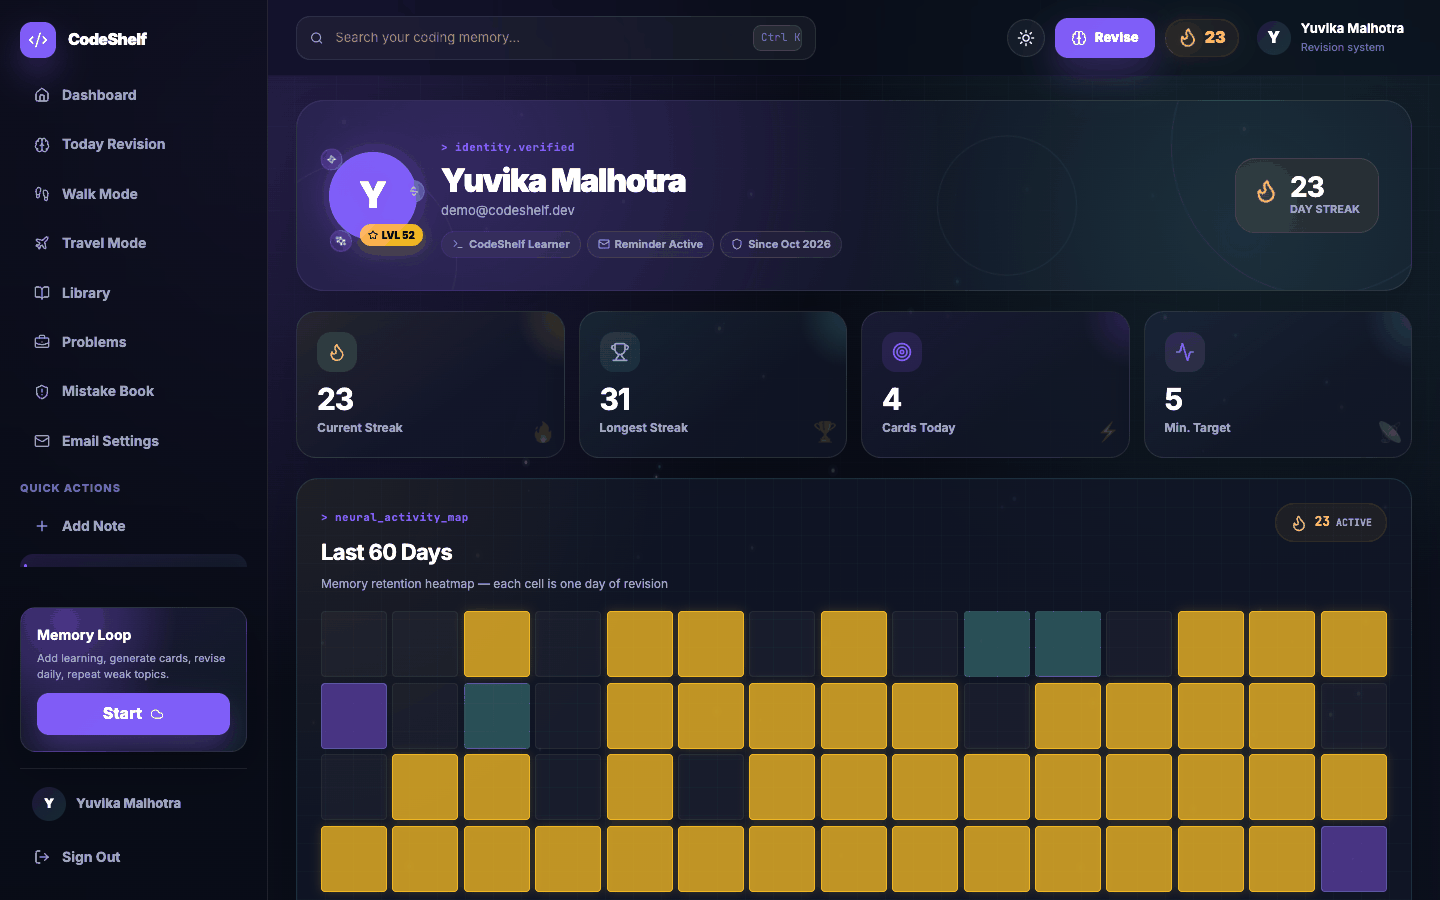
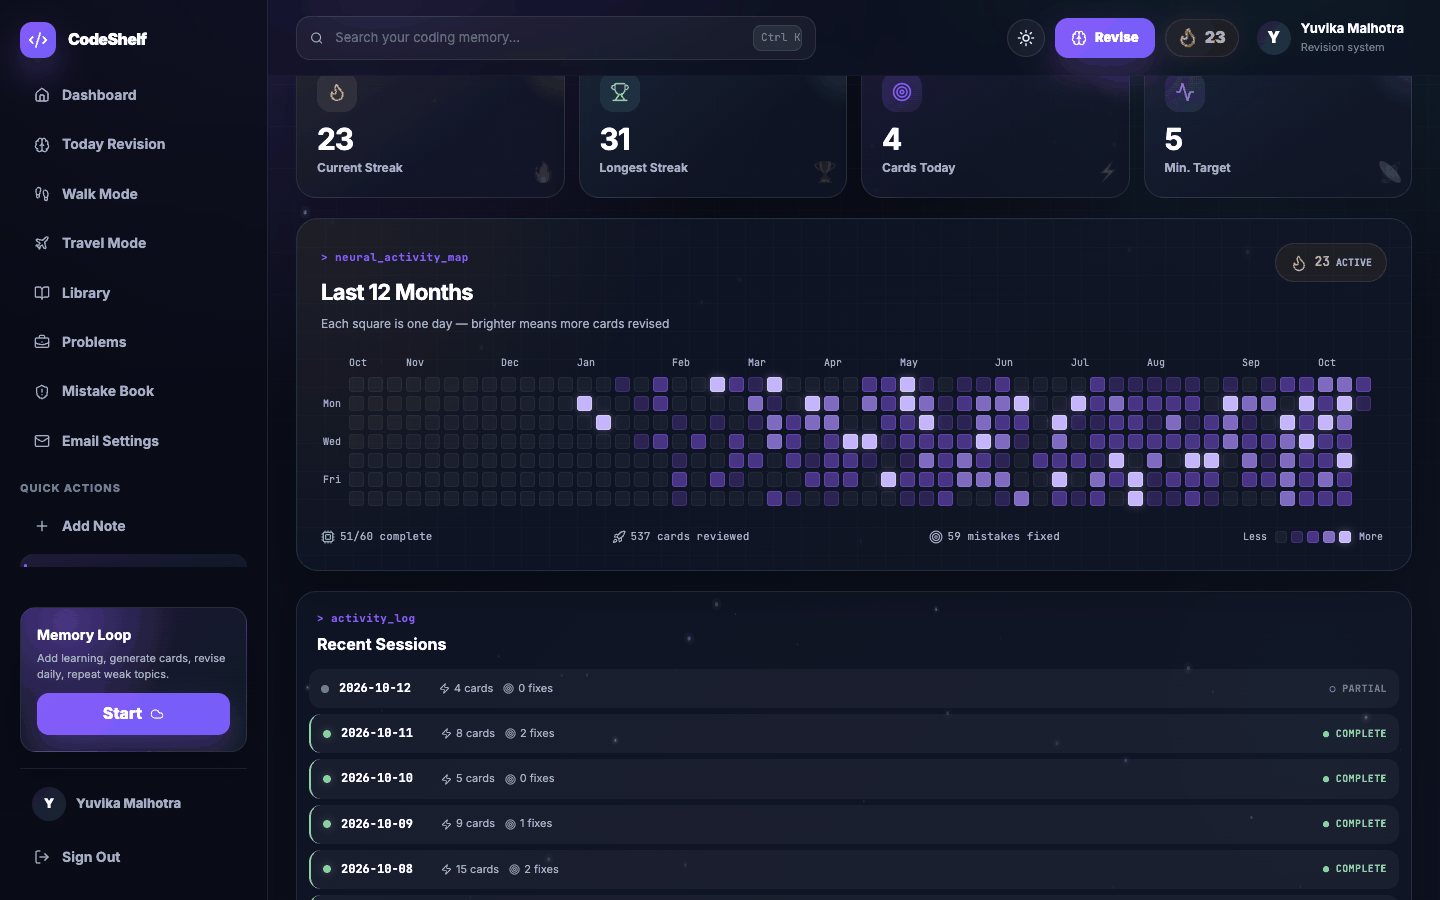
Profile heatmap: GitHub-style 12-month activity graph
Week columns with weekday and month labels, fixed-size cells and five
intensity levels scaled to the daily card target, instead of 60 equal
oversized tiles. /api/activity takes an optional days window (default 60,
so existing callers are unchanged); stats and the session log still use
the last 60 days. README screenshot and demo GIF updated.

diff --git a/src/pages/Profile.jsx b/src/pages/Profile.jsx
@@ -12,12 +12,13 @@ export default function Profile() {
 
   useEffect(() => {
     activityApi.streak().then(setStreak).catch(() => {})
-    activityApi.activity().then((data) => setActivity(data.activity || [])).catch(() => {})
+    activityApi.activity({ days: HEATMAP_DAYS }).then((data) => setActivity(data.activity || [])).catch(() => {})
   }, [])
 
-  const totalCards = activity.reduce((sum, d) => sum + (d.cards_reviewed || 0), 0)
-  const totalMistakes = activity.reduce((sum, d) => sum + (d.mistakes_fixed || 0), 0)
-  const completeDays = activity.filter(d => d.completed_today).length
+  const recent = activity.slice(0, 60)
+  const totalCards = recent.reduce((sum, d) => sum + (d.cards_reviewed || 0), 0)
+  const totalMistakes = recent.reduce((sum, d) => sum + (d.mistakes_fixed || 0), 0)
+  const completeDays = recent.filter(d => d.completed_today).length
   const joinDate = user?.created_at ? new Date(user.created_at).toLocaleDateString('en-US', { month: 'short', year: 'numeric' }) : 'Explorer'
 
   return (
@@ -87,8 +88,8 @@ export default function Profile() {
         <div className="pro-neural-head">
           <div>
             <span className="pro-tag">&gt; neural_activity_map</span>
-            <h2>Last 60 Days</h2>
-            <p className="pro-neural-sub">Memory retention heatmap — each cell is one day of revision</p>
+            <h2>Last 12 Months</h2>
+            <p className="pro-neural-sub">Each square is one day — brighter means more cards revised</p>
           </div>
           <div className="pro-neural-score">
             <Flame size={18} />
@@ -113,11 +114,13 @@ export default function Profile() {
             <span>{totalMistakes} mistakes fixed</span>
           </div>
           <div className="pro-heat-legend">
+            <span>Less</span>
             <i className="pro-hc l0" />
             <i className="pro-hc l1" />
             <i className="pro-hc l2" />
             <i className="pro-hc l3" />
             <i className="pro-hc l4" />
+            <span>More</span>
           </div>
         </div>
       </section>
@@ -129,7 +132,7 @@ export default function Profile() {
           <h3>Recent Sessions</h3>
         </div>
         <div className="pro-log-list">
-          {activity.length ? activity.map((day) => (
+          {recent.length ? recent.map((day) => (
             <div className={`pro-log-row ${day.completed_today ? 'complete' : ''}`} key={day.date}>
               <div className="pro-log-pip" />
               <div className="pro-log-date">{day.date}</div>
@@ -175,31 +178,68 @@ function MetricOrb({ icon: Icon, label, value, color, glyph }) {
   )
 }
 
+const HEATMAP_DAYS = 371
+const MONTHS = ['Jan', 'Feb', 'Mar', 'Apr', 'May', 'Jun', 'Jul', 'Aug', 'Sep', 'Oct', 'Nov', 'Dec']
+
+function localKey(date) {
+  return `${date.getFullYear()}-${String(date.getMonth() + 1).padStart(2, '0')}-${String(date.getDate()).padStart(2, '0')}`
+}
+
 function ActivityHeatmap({ activity, minimum }) {
   const byDate = new Map((activity || []).map((day) => [day.date, day]))
-  const days = []
   const today = new Date()
-  for (let offset = 59; offset >= 0; offset -= 1) {
-    const date = new Date(today)
-    date.setDate(today.getDate() - offset)
-    const key = date.toISOString().slice(0, 10)
-    const item = byDate.get(key) || { date: key, cards_reviewed: 0, mistakes_fixed: 0, completed_today: false }
-    days.push(item)
+  today.setHours(0, 0, 0, 0)
+  // GitHub-style: one column per week (Sun → Sat), oldest week on the left.
+  const start = new Date(today)
+  start.setDate(today.getDate() - (HEATMAP_DAYS - 1))
+  start.setDate(start.getDate() - start.getDay())
+  const target = Math.max(1, minimum)
+  const weeks = []
+  for (let cursor = new Date(start); cursor <= today; ) {
+    const week = []
+    for (let d = 0; d < 7; d += 1) {
+      const key = localKey(cursor)
+      const day = cursor <= today ? (byDate.get(key) || { date: key, cards_reviewed: 0, mistakes_fixed: 0 }) : null
+      week.push({ key, month: cursor.getMonth(), dom: cursor.getDate(), day })
+      cursor.setDate(cursor.getDate() + 1)
+    }
+    weeks.push(week)
   }
+  const level = (n) => (n <= 0 ? 0 : n < target ? 1 : n < target * 2 ? 2 : n < target * 3 ? 3 : 4)
 
   return (
     <div className="pro-heatmap">
-      {days.map((day, i) => {
-        const level = day.completed_today ? 4 : Math.min(3, Math.ceil((day.cards_reviewed || 0) / Math.max(1, minimum / 3)))
-        return (
-          <span
-            key={day.date}
-            className={`pro-hc l${level}`}
-            title={`${day.date}: ${day.cards_reviewed || 0} cards, ${day.mistakes_fixed || 0} mistakes`}
-            style={{ animationDelay: `${i * 15}ms` }}
-          />
-        )
-      })}
+      <div className="pro-heat-days" aria-hidden="true">
+        <span />
+        <span>Mon</span>
+        <span />
+        <span>Wed</span>
+        <span />
+        <span>Fri</span>
+        <span />
+      </div>
+      <div className="pro-heat-body">
+        <div className="pro-heat-months" aria-hidden="true">
+          {weeks.map((week, i) => {
+            const first = week.find((cell) => cell.dom === 1)
+            return <span key={week[0].key}>{first || i === 0 ? MONTHS[(first || week[0]).month] : ''}</span>
+          })}
+        </div>
+        <div className="pro-heat-grid">
+          {weeks.flatMap((week, w) => week.map((cell) => (
+            cell.day
+              ? (
+                <span
+                  key={cell.key}
+                  className={`pro-hc l${level(cell.day.cards_reviewed || 0)}`}
+                  title={`${cell.key}: ${cell.day.cards_reviewed || 0} cards, ${cell.day.mistakes_fixed || 0} mistakes`}
+                  style={{ animationDelay: `${w * 12}ms` }}
+                />
+              )
+              : <span key={cell.key} className="pro-hc empty" />
+          )))}
+        </div>
+      </div>
     </div>
   )
 }

diff --git a/src/pages/profile-revision.css b/src/pages/profile-revision.css
@@ -56,19 +56,25 @@
 .pro-neural-score{display:flex;align-items:center;gap:6px;padding:8px 14px;border:1px solid rgba(251,191,36,.2);border-radius:999px;background:rgba(251,191,36,.06);color:var(--orange);font-family:'JetBrains Mono',monospace;font-size:13px;font-weight:800}
 .pro-neural-score span{color:var(--muted);font-size:10px;text-transform:uppercase}
 
-.pro-heatmap{display:grid;grid-template-columns:repeat(15,1fr);gap:5px}
-.pro-hc{display:block;aspect-ratio:1;border-radius:4px;border:1px solid rgba(255,255,255,.05);background:rgba(255,255,255,.035);transition:transform .15s var(--spring),box-shadow .15s var(--ease);animation:hcIn .3s var(--ease) both}
-.pro-hc:hover{transform:scale(1.4);z-index:2;box-shadow:0 0 12px rgba(139,92,246,.3)}
-.pro-hc.l1{background:rgba(98,213,200,.16);border-color:rgba(98,213,200,.2)}
-.pro-hc.l2{background:rgba(98,213,200,.3);border-color:rgba(98,213,200,.35)}
-.pro-hc.l3{background:rgba(139,92,246,.45);border-color:rgba(139,92,246,.5)}
-.pro-hc.l4{background:rgba(251,191,36,.75);border-color:rgba(251,191,36,.8);box-shadow:0 0 10px rgba(251,191,36,.2)}
+.pro-heatmap{--hc:15px;--hg:4px;display:flex;gap:8px;overflow-x:auto;padding:4px 2px 8px;scrollbar-width:thin}
+.pro-heat-days{display:grid;grid-template-rows:repeat(7,var(--hc));gap:var(--hg);margin-top:22px;color:var(--muted);font-family:'JetBrains Mono',monospace;font-size:10px;line-height:var(--hc)}
+.pro-heat-body{display:grid;gap:6px}
+.pro-heat-months{display:grid;grid-auto-flow:column;grid-auto-columns:var(--hc);gap:var(--hg);height:16px;color:var(--muted);font-family:'JetBrains Mono',monospace;font-size:10px;white-space:nowrap}
+.pro-heat-grid{display:grid;grid-template-rows:repeat(7,var(--hc));grid-auto-flow:column;grid-auto-columns:var(--hc);gap:var(--hg)}
+.pro-hc{display:block;width:var(--hc,12px);height:var(--hc,12px);border-radius:3px;border:1px solid rgba(255,255,255,.04);background:rgba(255,255,255,.045);transition:transform .15s var(--spring),box-shadow .15s var(--ease);animation:hcIn .35s var(--ease) both}
+.pro-hc.empty{visibility:hidden}
+.pro-hc:hover{transform:scale(1.35);z-index:2;box-shadow:0 0 10px rgba(167,139,250,.45)}
+.pro-hc.l1{background:rgba(139,92,246,.22);border-color:rgba(139,92,246,.18)}
+.pro-hc.l2{background:rgba(139,92,246,.45);border-color:rgba(139,92,246,.35)}
+.pro-hc.l3{background:rgba(167,139,250,.72);border-color:rgba(167,139,250,.55)}
+.pro-hc.l4{background:#C4B5FD;border-color:#DDD6FE;box-shadow:0 0 8px rgba(196,181,253,.35)}
 @keyframes hcIn{from{opacity:0;transform:scale(0)}}
 
 .pro-neural-footer{display:flex;align-items:center;justify-content:space-between;gap:12px;margin-top:14px;flex-wrap:wrap}
 .pro-neural-stat{display:flex;align-items:center;gap:5px;color:var(--muted);font-family:'JetBrains Mono',monospace;font-size:11px}
-.pro-heat-legend{display:flex;gap:4px;align-items:center}
-.pro-heat-legend .pro-hc{width:12px;height:12px;animation:none}
+.pro-heat-legend{display:flex;gap:4px;align-items:center;color:var(--muted);font-family:'JetBrains Mono',monospace;font-size:10px}
+.pro-heat-legend span{margin:0 4px}
+.pro-heat-legend .pro-hc{--hc:12px;animation:none}
 
 /* Activity Log */
 .pro-log-panel{border:1px solid var(--border);border-radius:20px;background:var(--card);box-shadow:var(--shadow-soft);overflow:hidden}
@@ -198,6 +204,11 @@
 }
 @media(max-width:600px){
   .pro-stats{grid-template-columns:1fr 1fr}
-  .pro-heatmap{grid-template-columns:repeat(10,1fr)}
+  .pro-heatmap{--hc:12px;--hg:3px}
   .rev-rating-grid{grid-template-columns:repeat(2,1fr)}
 }
+body.light-theme .pro-hc{background:rgba(15,23,42,.07);border-color:rgba(15,23,42,.06)}
+body.light-theme .pro-hc.l1{background:rgba(139,92,246,.25)}
+body.light-theme .pro-hc.l2{background:rgba(139,92,246,.45)}
+body.light-theme .pro-hc.l3{background:rgba(124,58,237,.7)}
+body.light-theme .pro-hc.l4{background:#6D28D9;border-color:#5B21B6}

diff --git a/src/api/client.js b/src/api/client.js
@@ -171,5 +171,5 @@ export const aiApi = {
 
 export const activityApi = {
   streak: () => api('/streak'),
-  activity: () => api('/activity'),
+  activity: (params) => api(`/activity${q(params)}`),
 }

diff --git a/backend-py/app/routes/activity.py b/backend-py/app/routes/activity.py
@@ -2,7 +2,7 @@ from __future__ import annotations
 
 from datetime import date
 
-from fastapi import APIRouter, Depends
+from fastapi import APIRouter, Depends, Query
 from sqlalchemy import select
 from sqlalchemy.ext.asyncio import AsyncSession
 
@@ -28,9 +28,13 @@ async def streak(user: User = Depends(get_current_user), db: AsyncSession = Depe
 
 
 @router.get("/activity")
-async def activity(user: User = Depends(get_current_user), db: AsyncSession = Depends(get_db)):
+async def activity(
+    days: int = Query(60, ge=1, le=371),
+    user: User = Depends(get_current_user),
+    db: AsyncSession = Depends(get_db),
+):
     result = await db.execute(
-        select(DailyActivity).where(DailyActivity.user_id == user.id).order_by(DailyActivity.date.desc()).limit(60)
+        select(DailyActivity).where(DailyActivity.user_id == user.id).order_by(DailyActivity.date.desc()).limit(days)
     )
     rows = result.scalars().all()
     return {
